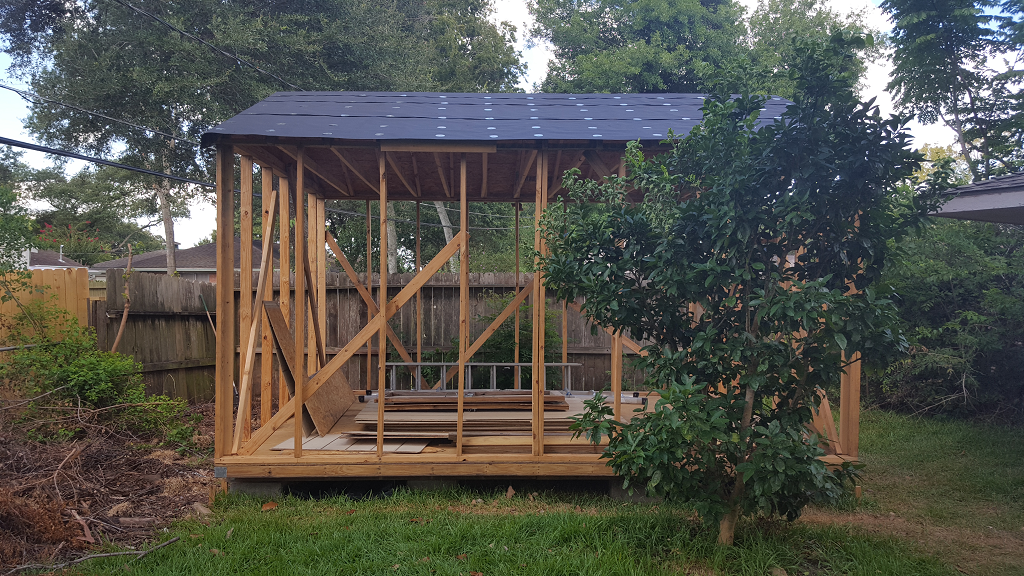
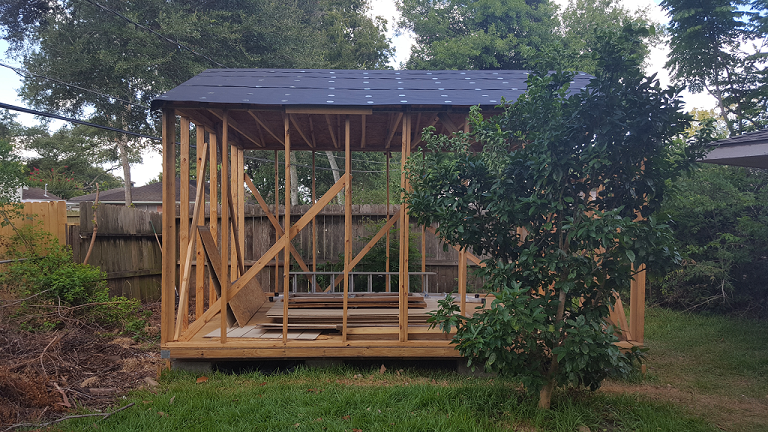
fixed some typos, reduced image size and added to bio

diff --git a/_posts/2017-9-12-Always-Use-Screws.md b/_posts/2017-9-12-Always-Use-Screws.md
@@ -2,7 +2,7 @@
 layout: post
 title: First Post!
 ---
-Well I resisted the inevitable for a long time, but writing stuff down is one of humanities greatest achievements so who am I to argue with progress.  This will mostly be a technical blog, where I'll chronicle interesting technical problems/solutions as I come across them.  Partly to contribute to the hive-mind of information on the Internet, partly to train myself to think in a recordable manner.  It's really easy to brute-force your way into a solution, it's a little harder to step back, create something in a logical and reproduceable manner, then explain it to someone else.  I don't guess this blog will stand out from the crowd, but maybe something will show up in a google search some where and some piece of info will totally save someone's day.  Or for the prospective employer reading this look at how good I can R do english good!
+Well I resisted the inevitable for a long time, but writing stuff down is one of humanities greatest achievements so who am I to argue with progress.  This will mostly be a technical blog, where I'll chronicle interesting technical problems/solutions as I come across them.  Partly to contribute to the hive-mind of information on the Internet, partly to train myself to think in a recordable manner.  It's really easy to brute-force your way into a solution, it's a little harder to step back, create something in a logical and reproduceable manner, then explain it to someone else.  I don't guess this blog will stand out from the crowd, but maybe something will show up in a google search somewhere and some piece of info will totally save someone's day.  Or for the prospective employer reading this look at how good I can R do english good!
 
 ![alt text][image]
 
@@ -10,9 +10,9 @@ Well I resisted the inevitable for a long time, but writing stuff down is one of
 
 # Always Use Screws
 
-So I picked this name out of a heat induced fugue of manual labor and partly because it was available.  My father-in-law was selling his house, and had a storage shed that the buyer didn't want.  He asked if I'd like it and of course I said yes!  Now it was free of charge, but I had to help take it apart, move it, and reassemble it.  Not a bad deal, the only downside being that it was August in SE Texas.  So basically like the surface of the sun on a good day. So after a day of disassembly that was much harder than expected, I began the task of removing the nails and staples from all the lumber and wall panels.  It was 100 degrees in the shade, I had mostly run out of sweat, and whoever built this thing must have been really excited to use a nail gun.  There were nails everywhere, and a staple or two between each one for good measure.  It was in that moment, between gasping expletives, that I swore I would always use screws whenever I built anything.  Screws were more expensive and more time consuming, and completely unneccessary if you're never going to take the thing apart.  But on the off chance you do have to take apart that permanent building, it will all be worth it.
+So I picked this name out of a heat induced fugue of manual labor and partly because it was obscure enough to be available.  My father-in-law was selling his house, and had a storage shed that the buyer didn't want.  He asked if I'd like it and of course I said yes!  Now it was free of charge, but I had to help take it apart, move it, and reassemble it.  Not a bad deal, the only downside being that it was August in SE Texas.  So basically like the surface of the sun on a good day. So after a day of disassembly that was much harder than expected, I began the task of removing the nails and staples from all the lumber and wall panels.  It was 100 degrees in the shade, I had mostly run out of sweat, and whoever built this thing must have been really excited to use a nail gun.  There were nails everywhere, and a staple or two between each one for good measure.  It was in that moment, between gasping expletives, that I swore I would always use screws whenever I built anything.  Screws were more expensive and more time consuming, and completely unneccessary if you're never going to take the thing apart.  But on the off chance you do have to take apart that permanent building, it will all be worth it.
 
-Later that evening when I had cooled off and higher brain function returned, it occurred to me that 'Always Use Screws' was a good mindset for scripting and tool building.  You should always build something in a way that it can be dismantled by others.  Even if it takes longer, even if you have to try it a few times, even if you're certain it's just a one time thing that will never be dismantled.  Because it's not, and it will.  And even if it isn't, it's just a good mindset to help you build things better.  That first time you do it the hard way will suck.  And the next few times as well, but eventually thinking with screws (hey that's not a bad line either) will get easier, and then one day it'll really be the better way to do something and you'll already be proficient in it. Like this blog, I'll be dismantling scripts I've written and pointing out where I've used screws and where I've used nails (not sure what the staples would be in this analogy but I'm sure they'd be something awful, like sendkeys).  Maybe just knowing that I'll have to explain something here will be a good reminder to be a little more thoughtful in my design.
+Later that evening when I had cooled off and higher brain function returned, it occurred to me that 'Always Use Screws' was a good mindset for scripting and tool building.  You should always build something in a way that it can be dismantled by others.  Even if it takes longer, even if you have to try it a few times, even if you're certain it's just a one time thing that will never be dismantled.  Because it's not, and it will.  And even if it isn't, it's just a good mindset to help you build things better.  That first time you do it the hard way will suck.  And the next few times as well, but eventually thinking with screws (hey that's not a bad line either) will get easier, and then one day it'll really be the better way to do something and you'll already be proficient in it. Like this blog; I'll be dismantling scripts I've written and pointing out where I've used screws and where I've used nails (not sure what the staples would be in this analogy but I'm sure they'd be something awful, like sendkeys).  Maybe just knowing that I'll have to explain something here will be a good reminder to be a little more thoughtful in my design.
 
 Now full disclosure, during re-assembly of the aforementioned shed it was still 100 degrees, and the siren song of the nail gun was just too much for my poor heat-stroked heart to resist.  So it's totally full of nails.  But rather than admit hipocracy and defeat I'll go with:
 

diff --git a/about.md b/about.md
@@ -4,7 +4,7 @@ title: About
 permalink: /about/
 ---
 
-Jeremy is an old OPS guy from the dark ages of computing.  He started automating NT 4.0 installations and hasn't looked back.  Classically trained as an Active Directory Administrator and Windows Engineer, he is currently engrossed in all things Powershell and is eagerly awaiting the death of the GUI.
+Jeremy is an old OPS guy from the dark ages of computing.  He started automating NT 4.0 installations and hasn't looked back.  Classically trained as an Active Directory Administrator and Windows Engineer, he is currently engrossed in all things Powershell and is eagerly awaiting the death of the GUI.  He also thinks writing bios in the third person is weird.
 
 
 ### Contact me
